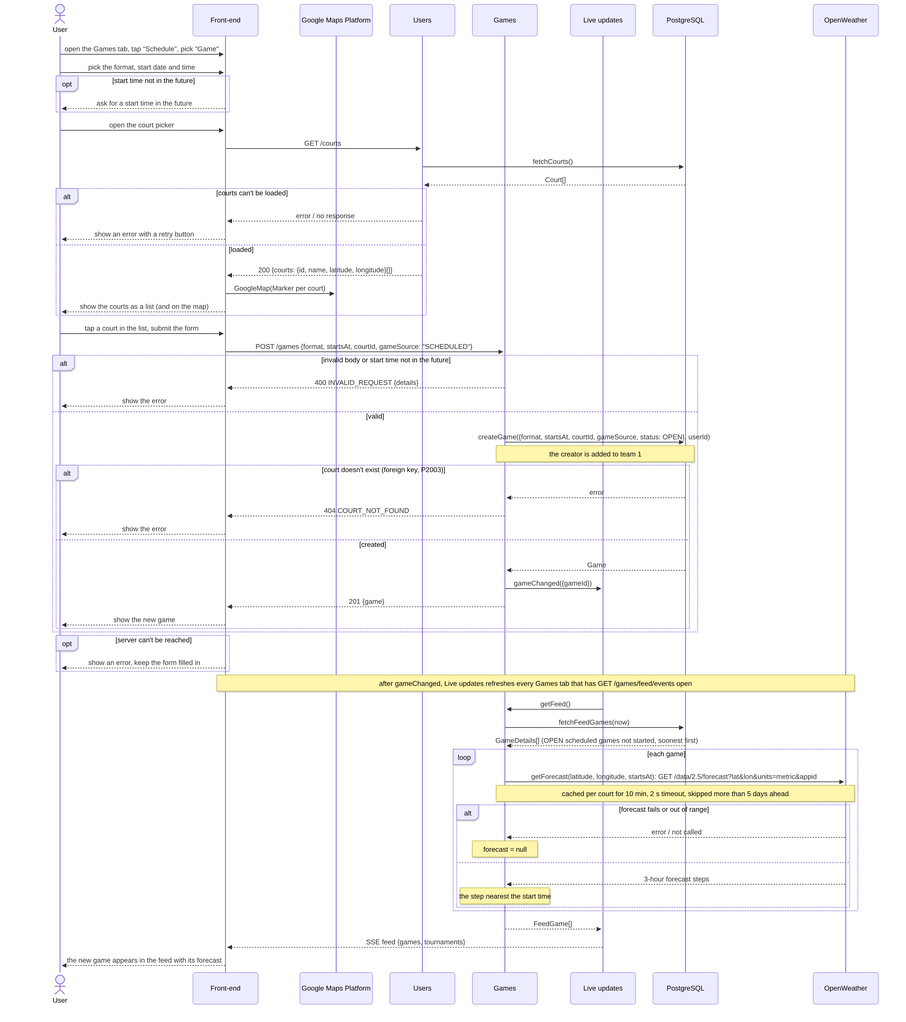
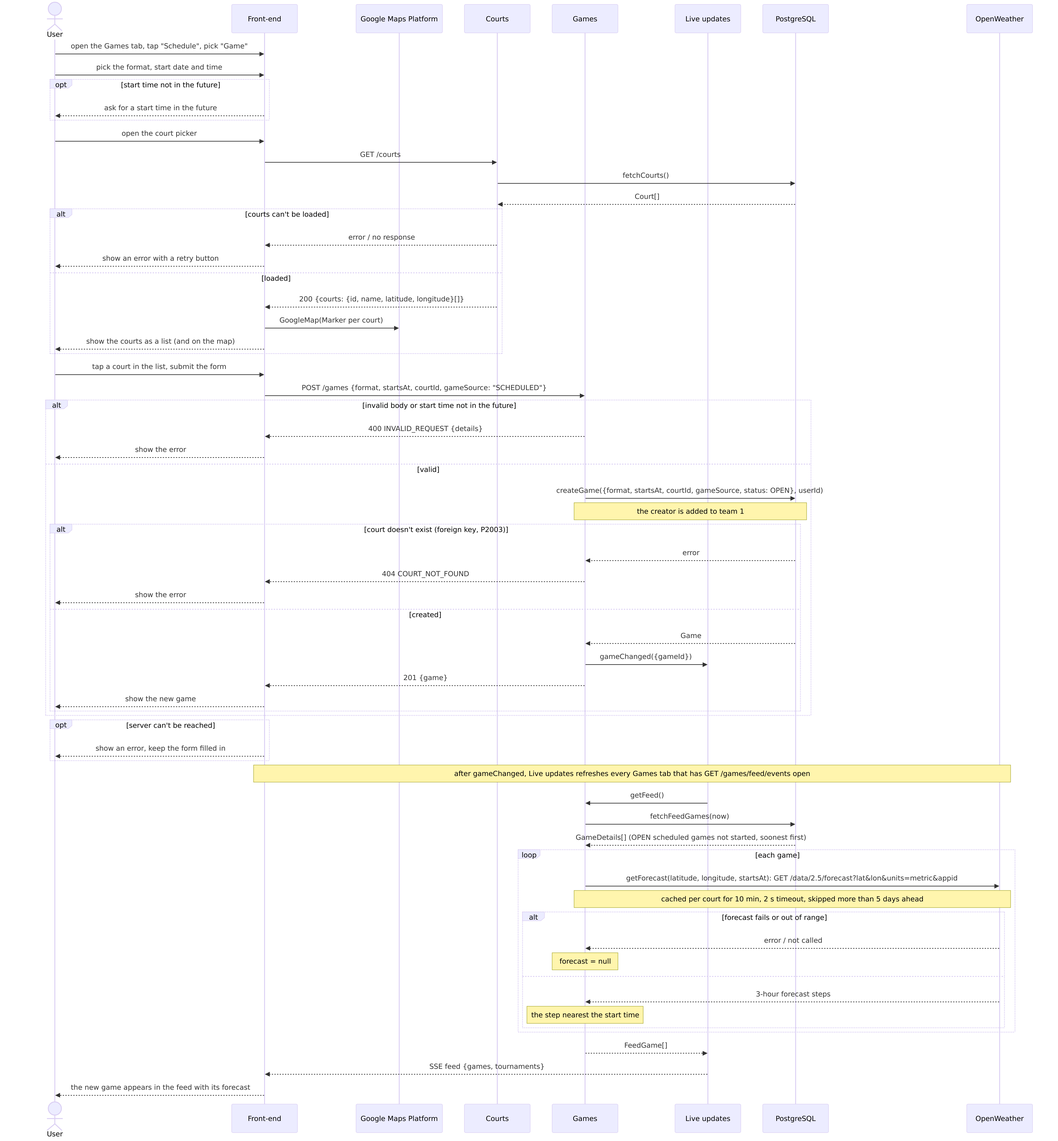
docs: replace check-in with Start now, give Courts its own component
- Use Case 2 is now Start a scheduled match ("Start now"), with leaving or
  cancelling as the way to opt out; check-in use case and interface removed,
  use cases renumbered, use case and sequence diagrams redrawn
- Courts moved out of Users into its own component (doc, dependencies and
  create-match diagrams); preferred-courts routes corrected
- Restore main's score confirmation and GET /matchmaking/events text that a
  merge on this branch had reverted
- Shorter diagram captions; remove the unused seq_update_game_info.png

diff --git a/documentation/Requirements_and_Design.md b/documentation/Requirements_and_Design.md
@@ -26,7 +26,7 @@
 | Nov 20, 2026 | 3.7, 4.7 | Added NFR 4, rating accuracy for new players, which `backend/tests/nfr/ratingAccuracy.test.ts` checks. |
 | Nov 20, 2026 | 3.1, 3.2, 3.4, 3.5, 4.6 | Reviewer feedback on features and use cases: split use cases that had more than one goal, added the missing user-facing use cases (sign out, profile, leave the queue, decline a match, friends, equipment, match history, stats), moved system-only steps out of the use case list and gave every use case an active, user-focused name. Redrew the use case diagram. |
 | Nov 20, 2026 | 3.1, 3.2, 3.3, 3.4, 3.5, 3.7, 4.1, 4.3, 4.6, 4.7 | Every feature that was not yet built is now implemented, so the notes saying so are removed. Removed the live score feature, its use cases and its non-functional requirement: players report the score once after the game. Added a fifth formal use case, Join a scheduled match. |
-| Nov 20, 2026 | 3.2, 4.5, 4.6 | Diagrams updated to match the code: numbered the use cases in the use case diagram; redrew the dependencies diagram with every backend component (Tournaments, Friends, live updates) and the interface behind each arrow; updated the sequence diagrams to the real routes and functions, including score confirmation in Submit final score; added the Join a scheduled match diagram; marked the Check in diagram as planned, since check-in isn't implemented yet. |
+| Nov 20, 2026 | 3.1, 3.2, 3.4, 3.5, 4.1, 4.5, 4.6 | Diagrams matched to the code, plus a Join a scheduled match diagram. Check-in replaced by "Start now" (Use Case 2, Start a scheduled match); players opt out by leaving or cancelling. Courts moved out of Users into their own component. Restored the score confirmation and `GET /matchmaking/events` text lost in a merge. |
 
 ---
 
@@ -50,22 +50,22 @@ Users pick a format (singles, doubles or either) and where they want to play. Th
 Users schedule a game for a future time at a court they pick from a list. It shows in the feed with the weather forecast, and others can join it or be invited by a friend. Users can add it to Google Calendar.
 
 #### **ELO ranking**
-After a game's final score is reported once the game is over, every player's ELO rating changes, and a leaderboard ranks players by rating. A player's stats screen shows their ELO over time, their match, set and game totals, and how they do against opponents of different ratings.
+After every player of a game confirms its final score, every player's ELO rating changes, and a leaderboard ranks players by rating. A player's stats screen shows their ELO over time, their match, set and game totals, and how they do against opponents of different ratings.
 
 #### **Tournaments**
-Users create an 8-team single-elimination tournament (singles or doubles) that players register for from the feed. When it fills, the system forms and seeds the teams, draws the bracket and books the quarterfinals. Each reported score moves the winner on, up to the champion.
+Users create an 8-team single-elimination tournament (singles or doubles) that players register for from the feed. When it fills, the system forms and seeds the teams, draws the bracket and books the quarterfinals. Each confirmed score moves the winner on, up to the champion.
 
 Supporting features: **friends** (requests, friends list, adding players from a match summary), **match history** with a summary per game, and **equipment** tracking (rackets, balls, shoes, with maintenance dates).
 
 **Project scope requirements:**
 - **External API**: Google Maps (picking courts), Google Places (picking where to play), OpenWeather (feed forecasts), Google Calendar (adding booked games).
-- **External event**: match notifications and game invites through Firebase Cloud Messaging.
+- **External event**: match notifications, game invites and requests to confirm a score through Firebase Cloud Messaging.
 - **Our own computation**: the matching algorithm, ELO with margin of victory, and the tournament draw (rating-based seeding, balanced doubles teams, moving winners through the bracket).
 
 ### **3.2. Use Case Diagram**
 ![Use case diagram](images/use_case_diagram.png)
 
-Each use case is one goal that the User pursues directly, grouped by feature. To keep the diagram readable, the User is joined to each feature group with one line instead of one line per use case, and the User takes part in every use case in the group. External services are drawn with plain lines because they support use cases but never start one; an external service that supports several groups is drawn beside each of them. Steps done by the system alone (matchmaking, cancelling unanswered matches, the ELO calculation, updating the leaderboard, drawing the bracket) are not use cases; §3.4 describes them as steps of use cases 6, 9, 10, 22 and 28. Viewing a tournament bracket (31) leads to playing its matches, which are use cases 19 and 22.
+Use cases are numbered as in §3.4. The User takes part in every use case of each group it is joined to. External services support use cases but never start one. Steps the system does alone are not use cases (see §3.4).
 
 ### **3.3. Actors Description**
 1. **User**: a tennis player who signs in with Google, joins or is matched into games, and reports scores. Every player in a game has the same permissions on it.
@@ -101,42 +101,41 @@ Each use case is one goal of one user, named with an active verb. The numbers ma
 16. **Change a match's time**: A player moves the game to another time.
 17. **Change a match's court**: A player moves the game to another court.
 18. **Cancel a scheduled match**: A player cancels the game for everyone.
-19. **Start a game early**: A player of a booked game taps "Start now" so the game can start before its start time and be scored.
-20. **Check in at the court**: Each player confirms they are at the court within 30 minutes of the start, or the game is cancelled.
-21. **Add game to Google Calendar**: The user adds a booked game to their calendar.
+19. **Start a scheduled match**: At the court, a player of a booked game taps "Start now" to start it for everyone, so its score can be reported.
+20. **Add game to Google Calendar**: The user adds a booked game to their calendar.
 
 - Feature 4: ELO ranking and history
-22. **Submit final score**: Once the game has started, a player reports the final score, and every player sees the match summary with their rating change. A tournament match is reported the same way.
-23. **View match summary**: The user views a finished game's score and each player's rating before and after.
-24. **View match history**: The user views their finished games, most recent first.
-25. **View leaderboard**: The user views players ranked by rating, with their own rank.
-26. **View player stats**: The user views a player's ELO over time, match, set and game totals, and results against opponents of different ratings.
+21. **Submit final score**: A player reports the final score and every other player confirms it, or suggests a correction that everyone confirms again. Once everyone agrees, every player sees the match summary with their rating change. A tournament match is scored the same way.
+22. **View match summary**: The user views a finished game's score and each player's rating before and after.
+23. **View match history**: The user views their finished games, most recent first.
+24. **View leaderboard**: The user views players ranked by rating, with their own rank.
+25. **View player stats**: The user views a player's ELO over time, match, set and game totals, and results against opponents of different ratings.
 
 - Feature 5: Tournaments
-27. **Create a tournament**: The user creates a tournament with a name, format, court and start time, and is registered as its first player.
-28. **Register for a tournament**: The user registers from the feed until it is full (8 players in singles, 16 in doubles) or starts. The registration that fills it triggers the bracket draw (see *System steps* below).
-29. **Leave a tournament**: The user leaves during registration. The creator can't leave but can cancel it.
-30. **Cancel a tournament**: The creator cancels a tournament that is still in registration.
-31. **View a tournament bracket**: The user views the bracket and opens each match, which is played like any game (use cases 19 and 22).
+26. **Create a tournament**: The user creates a tournament with a name, format, court and start time, and is registered as its first player.
+27. **Register for a tournament**: The user registers from the feed until it is full (8 players in singles, 16 in doubles) or starts. The registration that fills it triggers the bracket draw (see *System steps* below).
+28. **Leave a tournament**: The user leaves during registration. The creator can't leave but can cancel it.
+29. **Cancel a tournament**: The creator cancels a tournament that is still in registration.
+30. **View a tournament bracket**: The user views the bracket and opens each match, which is played like any game (use cases 19 and 21).
 
 - Feature 6: Friends
-32. **Send a friend request**: The user asks another player to be friends, including from a match summary.
-33. **Accept a friend request**: The user accepts a request they received.
-34. **Decline a friend request**: The user declines a request they received.
-35. **Remove a friend**: The user removes a friend from their friends list.
-36. **View friends**: The user views their friends and the game each one is playing.
+31. **Send a friend request**: The user asks another player to be friends, including from a match summary.
+32. **Accept a friend request**: The user accepts a request they received.
+33. **Decline a friend request**: The user declines a request they received.
+34. **Remove a friend**: The user removes a friend from their friends list.
+35. **View friends**: The user views their friends and the game each one is playing.
 
 - Feature 7: Equipment
-37. **View equipment**: The user views their rackets, balls and shoes, with maintenance dates.
-38. **Add equipment**: The user adds an item and can make it their default.
-39. **Update equipment**: The user changes an item's name, default status or maintenance date.
-40. **Remove equipment**: The user retires an item.
+36. **View equipment**: The user views their rackets, balls and shoes, with maintenance dates.
+37. **Add equipment**: The user adds an item and can make it their default.
+38. **Update equipment**: The user changes an item's name, default status or maintenance date.
+39. **Remove equipment**: The user retires an item.
 
 **System steps (not use cases).** The user does not do these directly, so they are not in the diagram:
 - *Matchmaking* (part of use case 6): every 10 seconds, the system groups queued players who want a compatible format, are within 10 km of each other and have close ratings, books a game one hour later at a court near them and notifies everyone.
 - *Cancelling unanswered matches* (part of use cases 9 and 10): if anyone declines, or not everyone has accepted 30 minutes before the start, the system cancels the match for everyone.
-- *ELO change calculation and leaderboard update* (part of use case 22): the system calculates each player's rating change and applies it to the leaderboard.
-- *Bracket draw* (part of use case 28): when a tournament fills, the system forms the teams (in doubles, strongest with weakest), seeds them by rating, draws the bracket (1 v 8, 4 v 5, 3 v 6, 2 v 7) and books the quarterfinals. Each reported score moves the winner on, books the next match once both teams are known (semifinals one hour after the start, the final two hours after), and the final completes the tournament.
+- *ELO change calculation and leaderboard update* (part of use case 21): the system calculates each player's rating change and applies it to the leaderboard.
+- *Bracket draw* (part of use case 27): when a tournament fills, the system forms the teams (in doubles, strongest with weakest), seeds them by rating, draws the bracket (1 v 8, 4 v 5, 3 v 6, 2 v 7) and books the quarterfinals. Each confirmed score moves the winner on, books the next match once both teams are known (semifinals one hour after the start, the final two hours after), and the final completes the tournament.
 
 ### **3.5. Formal Use Case Specifications (5 Most Major Use Cases)**
 <a name="uc1"></a>
@@ -157,7 +156,7 @@ Each use case is one goal of one user, named with an active verb. The numbers ma
 3. The user taps "Find a match". The system adds them to the queue and shows that it is searching.
 4. Every 10 seconds, the system takes the longest-waiting players first and groups each with the closest-rated players within 10 km (2 players for singles, 4 for doubles). Ratings in a group must be within 200 points for singles and 400 for doubles.
 5. The system creates a proposed game one hour from now, at the most-preferred court within 10 km of every player, or else the court nearest the middle of them. In doubles, the highest- and lowest-rated players play the middle two.
-6. The system notifies every player through Firebase Cloud Messaging.
+6. The system notifies every player through Firebase Cloud Messaging, and pushes the game to each player's live games stream (`GET /games/feed/events`), which the app follows while searching.
 7. The user sees the match with its court, time and players, and can accept or decline.
 
 **Failure scenario(s)**:
@@ -166,54 +165,58 @@ Each use case is one goal of one user, named with an active verb. The numbers ma
 - 3c. The server can't be reached: the app shows an error and the user can retry.
 - 4a. No compatible players are queued: the user stays in the queue and the system tries again every 10 seconds.
 - 4b. The user leaves the queue first: they are removed and no game is proposed.
-- 6a. A player's device can't receive the notification: the game stays on the server, and the app shows it on the Matchmaking tab and in "My games".
+- 6a. A player's device can't receive the notification, or it arrives late: the app still shows the match from the live games stream, and the game is in "My games".
 
 <a name="uc2"></a>
 
-#### Use Case 2: Check in to a scheduled match
-**Description**: At a booked game's start time, each player confirms they are at the court. The game starts once all confirm within 30 minutes, otherwise it is cancelled.
+#### Use Case 2: Start a scheduled match
+**Description**: When the players are at the court, one of them starts the booked game for everyone, so its score can be reported. Games never start on their own.
 
 **Primary actor(s)**: User
 
-**Preconditions**: The user is signed in and is a player in a booked game that hasn't started.
+**Preconditions**: The user is signed in and is a player in a booked game (every spot filled and, for a match, accepted by everyone) that hasn't started.
 
-**Postconditions**: The game has started, or it is cancelled for everyone with no rating changes.
+**Postconditions**: The game is in progress, its start time is now, and every player can report the score.
 
 **Main success scenario**:
-1. At the start time, the system notifies every player to confirm they are present.
-2. The user opens the game and taps "I'm here". The system records it and shows who has confirmed.
-3. The other players confirm the same way.
-4. When the last player confirms, the system starts the game and notifies everyone.
+1. The user opens the game from "My games" and taps "Start now".
+2. The app asks "Start this game now?", and the user confirms.
+3. The system marks the game in progress and moves its start time to now.
+4. Every player with the game open sees it in progress, with "Report final score" (Use Case 3).
 
 **Failure scenario(s)**:
-- 1a. A scheduled game still has open spots at its start time: the system cancels it and notifies its players.
-- 2a. The user confirms before the start time or after the 30-minute window: the confirmation is not recorded, and the app explains why.
-- 3a. A player hasn't confirmed 30 minutes after the start: the system cancels the game and notifies everyone.
+- 1a. A player can't make it: 30 minutes or more before the start, they tap "Leave game" and their spot reopens on the feed (scheduled games only). Any time before the game ends, they can tap "Cancel game" to cancel it for everyone. Tournament games can't be left or cancelled.
+- 1b. The game isn't booked yet (a free spot, or a match waiting for answers): "Start now" isn't shown.
+- 3a. Another player started it first, or it was cancelled meanwhile: the system rejects the request (`409`), and the app shows the error and the game's current state.
+- 3b. The server can't be reached: the app shows an error and the user can retry.
 
 <a name="uc3"></a>
 
 #### Use Case 3: Submit final score
-**Description**: A player reports the final score. The system decides the winner, updates every player's rating and shows the match summary.
+**Description**: A player reports the final score, and every other player confirms it. Once everyone agrees, the system decides the winner, updates every player's rating and shows the match summary.
 
-**Primary actor(s)**: User
+**Primary actor(s)**: User (the player reporting), other players (confirming)
 
-**Preconditions**: The user is signed in and is a player in a game that has started and has no final score. A player can start a booked game early by tapping "Start now", which moves its start time to now.
+**Preconditions**: The user is signed in and is a player in a game that has started (Use Case 2) and has no final score.
 
-**Postconditions**: The game is completed, its score can't change, every player's rating is updated, and the match summary shows each rating before and after.
+**Postconditions**: Every player agreed with the score, the game is completed, its score can't change, every player's rating is updated, and the match summary shows each rating before and after.
 
 **Main success scenario**:
 1. The user opens the game and taps "Report final score".
 2. The user enters each set's score and submits.
-3. The system validates the score and decides the winner: the side that won more sets.
-4. The system calculates each player's rating change with ELO and margin of victory (§7 of the Product Design). In doubles, a team is rated by its average, and each player gets half the team's change.
-5. In one transaction, the system saves the score and the new ratings, records each player's rating before and after, and marks the game completed. For a tournament game, it also moves the winner on through the bracket.
-6. The game shows its final score, and each player can open the match summary from their match history.
+3. The system validates the score and saves it as waiting for confirmation, with only the user agreeing. Every player with the game open sees it live, with who reported it and who has confirmed, and the other players get a push asking them to confirm it.
+4. Each other player opens the game from the push or the app, checks the score and taps "Confirm score". The system records their agreement, and everyone sees it live.
+5. When the last player confirms, the system decides the winner (the side that won more sets) and calculates each player's rating change with ELO and margin of victory (§7 of the Product Design). In doubles, a team is rated by its average, and each player gets half the team's change.
+6. In the same transaction as the last confirmation, the system saves the score and the new ratings, records each player's rating before and after, and marks the game completed. For a tournament game, it also moves the winner on through the bracket.
+7. The game shows its final score, and each player can open the match summary from their match history.
 
 **Failure scenario(s)**:
-- 1a. The final score was already reported: the system rejects it (`409`) and the game shows its final score.
-- 3a. There are no sets, a set score isn't a non-negative whole number, a set is tied, or both sides won the same number of sets: the system rejects it (`400`) and the user corrects the score.
-- 3b. A team isn't full: the system rejects it (`409`).
-- 5a. Saving fails, for example on a deadlock when two games sharing a player finish at once: nothing is saved (`409`), and the user can retry.
+- 1a. The final score was already confirmed by everyone: the system rejects it (`409`) and the game shows its final score.
+- 3a. There are no sets, a set score isn't a non-negative whole number, a set is tied, a set past 6 games isn't won by 2 games (or 7–6), or both sides won the same number of sets: the system rejects it (`400`) and the user corrects the score.
+- 4a. A player disagrees and taps "Suggest a correction": their score replaces the one waiting, every other player's agreement is reset, and the scenario continues at step 3 with them as the reporter. The reporter can change their own score the same way.
+- 4b. The score changed after the player opened it (another player corrected it): the system rejects the confirmation (`409`), the dialog closes, and the player sees the new score to confirm.
+- 6a. A team isn't full: the system rejects it (`409`) and the score keeps waiting.
+- 6b. Saving fails, for example on a deadlock when two games sharing a player finish at once: nothing is saved (`409`), and the player can confirm again.
 
 <a name="uc4"></a>
 
@@ -296,7 +299,7 @@ Not included. The formal use cases describe each screen.
 Every route except `POST /user/login`, `POST /user/refresh` and `POST /user/logout` needs `Authorization: Bearer <access token>` (`401` otherwise). An invalid body or query is `400` with `details`.
 
 1. **Users**
-    - **Purpose**: Accounts, sign-in and tokens, device notification tokens, equipment and the courts list.
+    - **Purpose**: Accounts, sign-in and tokens, device notification tokens, equipment and preferred courts.
     - **Rationale**: Everything about who a player is lives in one place, and other components only read it. Sign-in is delegated to Google, so auth only adds our own short-lived tokens on top.
     - **Interfaces**:
         1. `POST /user/login` with `{ idToken }` → `201` (new account) or `200` `{ message, username, accessToken, refreshToken }` - E
@@ -309,14 +312,12 @@ Every route except `POST /user/login`, `POST /user/refresh` and `POST /user/logo
             - **Purpose**: Registers the device that receives the caller's notifications.
         5. `GET /user/equipment` → `{ equipment }`, `POST /user/equipment` with `{ type, name, isDefault?, nextMaintenanceAt? }` → `201 { equipment }`, `PATCH /user/equipment/:equipmentId` → `{ equipment }`, `DELETE /user/equipment/:equipmentId` → `204` - E
             - **Purpose**: The caller's equipment (`RACKET`, `BALLS`, `SHOES` or `OTHER`), default items first. Deleting retires the item. `404` "Equipment not found".
-        6. `GET /courts` → `{ courts: { id, name, latitude, longitude }[] }` - E
-            - **Purpose**: Every court, by name, for the court picker.
-        7. `PUT /user/me/courts` with `{ courtIds }` → `Court[]` - E
-            - **Purpose**: Replaces the caller's preferred courts.
-        8. `string[] getFcmTokens(userIds)`, `void clearFcmTokens(tokens)` - In
+        6. `GET /user/me/preferred-courts` → `{ preferredCourts }`, `PUT` / `DELETE /user/me/preferred-courts/:courtId` → `204` - E
+            - **Purpose**: The caller's preferred courts, used by matchmaking to pick a court. `404` if the court doesn't exist.
+        7. `string[] getFcmTokens(userIds)`, `void clearFcmTokens(tokens)` - In
             - **Purpose**: Used by Matchmaking and Games to send notifications and drop dead tokens.
 2. **Games**
-    - **Purpose**: Games, their players and rounds, and their lifecycle: create, feed, join, leave, invite, accept, move, start early, cancel and final score.
+    - **Purpose**: Games, their players and rounds, and their lifecycle: create, feed, join, leave, invite, accept, move, start, cancel and final score.
     - **Rationale**: A game's players, status and rounds change together, so they stay in one component. Scheduled, matched and tournament games share it, told apart by `gameSource`.
     - **Interfaces**:
         1. `POST /games` with `{ format, startsAt, courtId, gameSource }` → `201 { game }` - E
@@ -324,13 +325,13 @@ Every route except `POST /user/login`, `POST /user/refresh` and `POST /user/logo
         2. `GET /games/feed` → `{ games: FeedGame[] }` - E
             - **Purpose**: Scheduled games that are `OPEN` and haven't started, soonest first. A `FeedGame` is a `GameDetails` with a `forecast` (`{ at, temperature, description, icon, precipitationChance }`), or `null` if it is over 5 days away or OpenWeather fails.
         3. `GET /games` with `gameId` → `{ game: GameDetails }` - E
-            - **Purpose**: One game with its court, players (`{ id, username, name, rating, team, acceptedAt, ratingBefore, ratingAfter }`), rounds, `tournament` (`{ id, name, round }`, or `null`) and `forecast`, like a `FeedGame`'s (`null` for a `COMPLETED` or `CANCELLED` game). `404` if not found.
+            - **Purpose**: One game with its court, players (`{ id, username, name, rating, team, acceptedAt, scoreConfirmedAt, ratingBefore, ratingAfter }`), rounds, `scoreProposal` (the score waiting for confirmation, `{ rounds, proposedById, proposedAt }` with rounds shaped like the game's, or `null`), `tournament` (`{ id, name, round }`, or `null`) and `forecast`, like a `FeedGame`'s (`null` for a `COMPLETED` or `CANCELLED` game). `404` if not found.
         4. `GET /games/me` → `{ games }` - E
             - **Purpose**: The caller's `BOOKED` and `IN_PROGRESS` games and `OPEN` games that haven't started, soonest first, each with its `forecast` like a `FeedGame`.
         5. `GET /games/history` → `{ games }` - E
             - **Purpose**: The caller's `COMPLETED` games, most recent first, for the match history and summary.
         6. `DELETE /games` with `gameId` → `204` - E
-            - **Purpose**: Cancels a game for everyone. A scheduled game is deleted with its players, rounds and equipment in one transaction, under the game's row lock; a matched game is marked `CANCELLED` (this is how a match is declined). `403` if the caller isn't in it, `404` if not found, `409` for a tournament game or one already completed or cancelled (a completed game keeps its score and rating changes).
+            - **Purpose**: Cancels a game for everyone. A scheduled game is deleted with its players, rounds, score waiting and equipment in one transaction, under the game's row lock; a matched game is marked `CANCELLED` (this is how a match is declined). `403` if the caller isn't in it, `404` if not found, `409` for a tournament game or one already completed or cancelled (a completed game keeps its score and rating changes).
         7. `POST /games/join` with `{ gameId, team }` → `204`, `POST /games/leave` with `{ gameId }` → `204` - E
             - **Purpose**: Join or leave a scheduled game. Joining needs an `OPEN` scheduled game that hasn't started and a free spot on the team (`409` otherwise); filling the last spot books it. Leaving is `409` for tournament and matched games, closed games, or within 30 minutes of the start; a booked game reopens. Both lock the game's row, so two players can't take the last spot.
         8. `POST /games/accept` with `{ gameId }` → `204` - E
@@ -341,21 +342,21 @@ Every route except `POST /user/login`, `POST /user/refresh` and `POST /user/logo
             - **Purpose**: Move a game to a future time or another court. The caller must be in it (`403`), and it must be open or booked and not a matched game (`409`).
         11. `POST /games/start` with `{ gameId }` → `{ game }` - E
             - **Purpose**: Starts a `BOOKED` game, early or late: it becomes `IN_PROGRESS` and its `startsAt` moves to now. Games never start on their own. A tournament's later rounds stay timed from the tournament's start. Only a booked game is updated, so two players starting it at once can't both start it. `403` if the caller isn't in it, `404` if not found, `409` if it is completed or cancelled, still `OPEN`, or already `IN_PROGRESS` (which also can't be moved).
-        12. `POST /games/score` with `{ gameId, rounds: [team1Score, team2Score][] }` → `{ game, rounds, ratingChanges }` - E
-            - **Purpose**: Reports the final score of an `IN_PROGRESS` game. In one transaction it saves the rounds, completes the game, updates ratings (`applyGameResult`) and, for a tournament game, advances the bracket (`advanceBracket`). `400` for an invalid score, `409` if not started (`GAME_NOT_STARTED`), already reported, a team isn't full, or Postgres aborts the transaction on a deadlock.
+        12. `POST /games/score` with `{ gameId, rounds: [team1Score, team2Score][] }`, `POST /games/score/confirm` with the same body → `{ completed: false }` or `{ completed: true, game, rounds, ratingChanges }` - E
+            - **Purpose**: Score confirmation for an `IN_PROGRESS` game: the game only completes once every player agrees with its score. `/score` reports a score: it is saved in `score_proposals` with only the caller agreeing (`game_users.scoreConfirmedAt`), replacing any score waiting and resetting everyone else's agreement, and the other players get a push (`type: "scoreReported"`) that opens the game. Reporting the score already waiting counts as confirming it. `/score/confirm` agrees with the score waiting; its body is the score the caller saw, so a score changed since then is refused (`409 SCORE_CHANGED`, or `409 NO_SCORE_TO_CONFIRM` if none is waiting), and confirming twice is fine. Both run under the game's row lock, so two players can't both complete the game. When the last player agrees, the same transaction completes the game, saves the rounds, deletes the score waiting, updates ratings (`applyGameResult`) and, for a tournament game, advances the bracket (`advanceBracket`). Every step is pushed live to the game's stream. `400` for an invalid score (no sets, a tied set, a set past 6 games not won by 2 games or 7-6, or no winner), `403` if the caller isn't in the game, `409` if not started (`GAME_NOT_STARTED`), already completed, a team isn't full, or Postgres aborts the transaction on a deadlock.
         13. `GET /games/events` with `gameId`, `GET /games/feed/events` → Server-Sent Events - E
             - **Purpose**: Live updates, pushed instead of polled. Each stream sends the current state when it opens, then again after every change, plus a heartbeat every 25 s. A game's stream sends `gameUpdated` (`{ game }`, like `GET /games`) or `gameDeleted`; the Games tab's sends `feed` (games and tournaments open to join, the same for everyone) and `mine` (the caller's), each `{ games, tournaments }`. Services announce changes (`events/changes.ts`) and `live/live.ts` pushes them, loading nothing when no one is watching. A user has at most 10 streams open; past that their oldest is closed. The app keeps a stream open only while its screen is visible, and reconnects whenever one ends.
-        14. `POST /games/check-in` - E
-            - **Purpose**: Check-in at the court.
 3. **Matchmaking**
     - **Purpose**: The matchmaking queue, the matching algorithm, and the jobs that run it every 10 seconds and cancel unanswered matches every minute.
     - **Rationale**: Matching creates games without a request, so it runs on a timer outside the request path, where join requests can't race each other.
     - **Interfaces**:
         1. `POST /matchmaking` with `{ format, latitude, longitude }` → `201 { request }`, `GET /matchmaking` → `{ request }`, `DELETE /matchmaking` → `204`, `GET /matchmaking/nearby` → `{ center, players }` (other queued players within 10 km, rounded to ~100 m, no ids) - E
             - **Purpose**: Join, check or leave the queue. Joining is `409` if already queued and `403` if the caller has a matched game waiting or booked. `GET` is `404` once the caller is matched or left.
-        2. `Match[] runMatchmaking()` - In
+        2. `GET /matchmaking/events` → Server-Sent Events - E
+            - **Purpose**: The caller's queue, pushed instead of polled, for the queue card's map: `nearby` (like `GET /matchmaking/nearby`) or `notQueued` when the stream opens, then again whenever anyone joins or leaves the queue or a run claims a match. Each watcher gets their own nearby players, loaded only while someone is watching. Streams like `GET /games/events`.
+        3. `Match[] runMatchmaking()` - In
             - **Purpose**: Called by the matchmaking job: finds matches (`findMatches`), picks a court (`chooseCourt`, else `nearestCourt`) and teams (`assignTeams`), creates each game in its own transaction and notifies its players.
-        3. `number cancelUnansweredMatches(now)` - In
+        4. `number cancelUnansweredMatches(now)` - In
             - **Purpose**: Called every minute: cancels matched games not accepted by everyone 30 minutes before the start.
 4. **Ranking**
     - **Purpose**: Ratings, the ELO calculation and the leaderboard.
@@ -386,7 +387,7 @@ Every route except `POST /user/login`, `POST /user/refresh` and `POST /user/logo
         6. `void drawBracket(tx, tournament, now)` - In
             - **Purpose**: Forms and seeds the teams (`formTeams`), saves the 7 matches, books the 4 quarterfinals and marks it `IN_PROGRESS`.
         7. `void advanceBracket(tx, gameId, rounds, now)` - In
-            - **Purpose**: Called by Games when a tournament game's score is reported: records the winner, books the next match once both its teams are known, and after the final marks the tournament `COMPLETED` with its champion.
+            - **Purpose**: Called by Games when every player of a tournament game has confirmed its score: records the winner, books the next match once both its teams are known, and after the final marks the tournament `COMPLETED` with its champion.
         8. `string[][] formTeams(entrants, format)` - In
             - **Purpose**: The pure team draw: ranks by rating, pairs strongest with weakest in doubles, seeds by average rating.
 6. **Friends**
@@ -399,10 +400,16 @@ Every route except `POST /user/login`, `POST /user/refresh` and `POST /user/logo
             - **Purpose**: Sends a request, or accepts theirs if they already sent one. `400` for yourself, `409` if already friends or sent, `404` if the user doesn't exist.
         3. `POST /friends/requests/accept` with `{ userId }` → `204`, `DELETE /friends` with `userId` → `204` - E
             - **Purpose**: Accept a request, or remove a friend or request in either direction. `404` if there is none.
+7. **Courts**
+    - **Purpose**: The list of courts players pick from.
+    - **Rationale**: Courts are shared reference data, not owned by a user or a game.
+    - **Interfaces**:
+        1. `GET /courts` → `{ courts: { id, name, latitude, longitude }[] }` - E
+            - **Purpose**: Every court, by name, for the court picker and the map.
 
 ### **4.2. Databases**
 1. **PostgreSQL (`donut`)**
-    - **Purpose**: Stores users, refresh tokens, courts, the matchmaking queue, games, their players (with ratings before and after), rounds, equipment, friendships and tournaments (`backend/prisma/schema.prisma`).
+    - **Purpose**: Stores users, refresh tokens, courts, the matchmaking queue, games, their players (with ratings before and after, and when they confirmed the score), rounds, scores waiting for confirmation (`score_proposals`), equipment, friendships and tournaments (`backend/prisma/schema.prisma`).
     - **Rationale**: The data is relational, and a match or a final score (with ratings and the bracket) must be saved in one transaction. MongoDB was rejected because nothing is document-shaped and it would lose those transactions.
 
 ### **4.3. External Modules**
@@ -455,16 +462,14 @@ Every route except `POST /user/login`, `POST /user/refresh` and `POST /user/logo
 
 ![Dependencies diagram](images/dependencies_diagram.png)
 
-An arrow from A to B means A calls an interface of B. Arrows touching the Backend box apply to every backend component: the front-end calls each, and each reads and writes PostgreSQL. The Tournaments and Friends components aren't drawn yet: the front-end calls both, both use PostgreSQL, Tournaments calls OpenWeather, and Games calls Tournaments (`advanceBracket`) and Friends (to check an invite).
-
 ### **4.6. Use Case Sequence Diagram (5 Most Major Use Cases)**
 1. [**Initiate live match**](#uc1)
 
 ![Initiate live match sequence diagram](images/seq_initiate_live_match.png)
 
-2. [**Check in to a scheduled match**](#uc2)
+2. [**Start a scheduled match**](#uc2)
 
-![Check in to a scheduled match sequence diagram](images/seq_start_scheduled_match.png)
+![Start a scheduled match sequence diagram](images/seq_start_scheduled_match.png)
 
 3. [**Submit final score**](#uc3)
 
